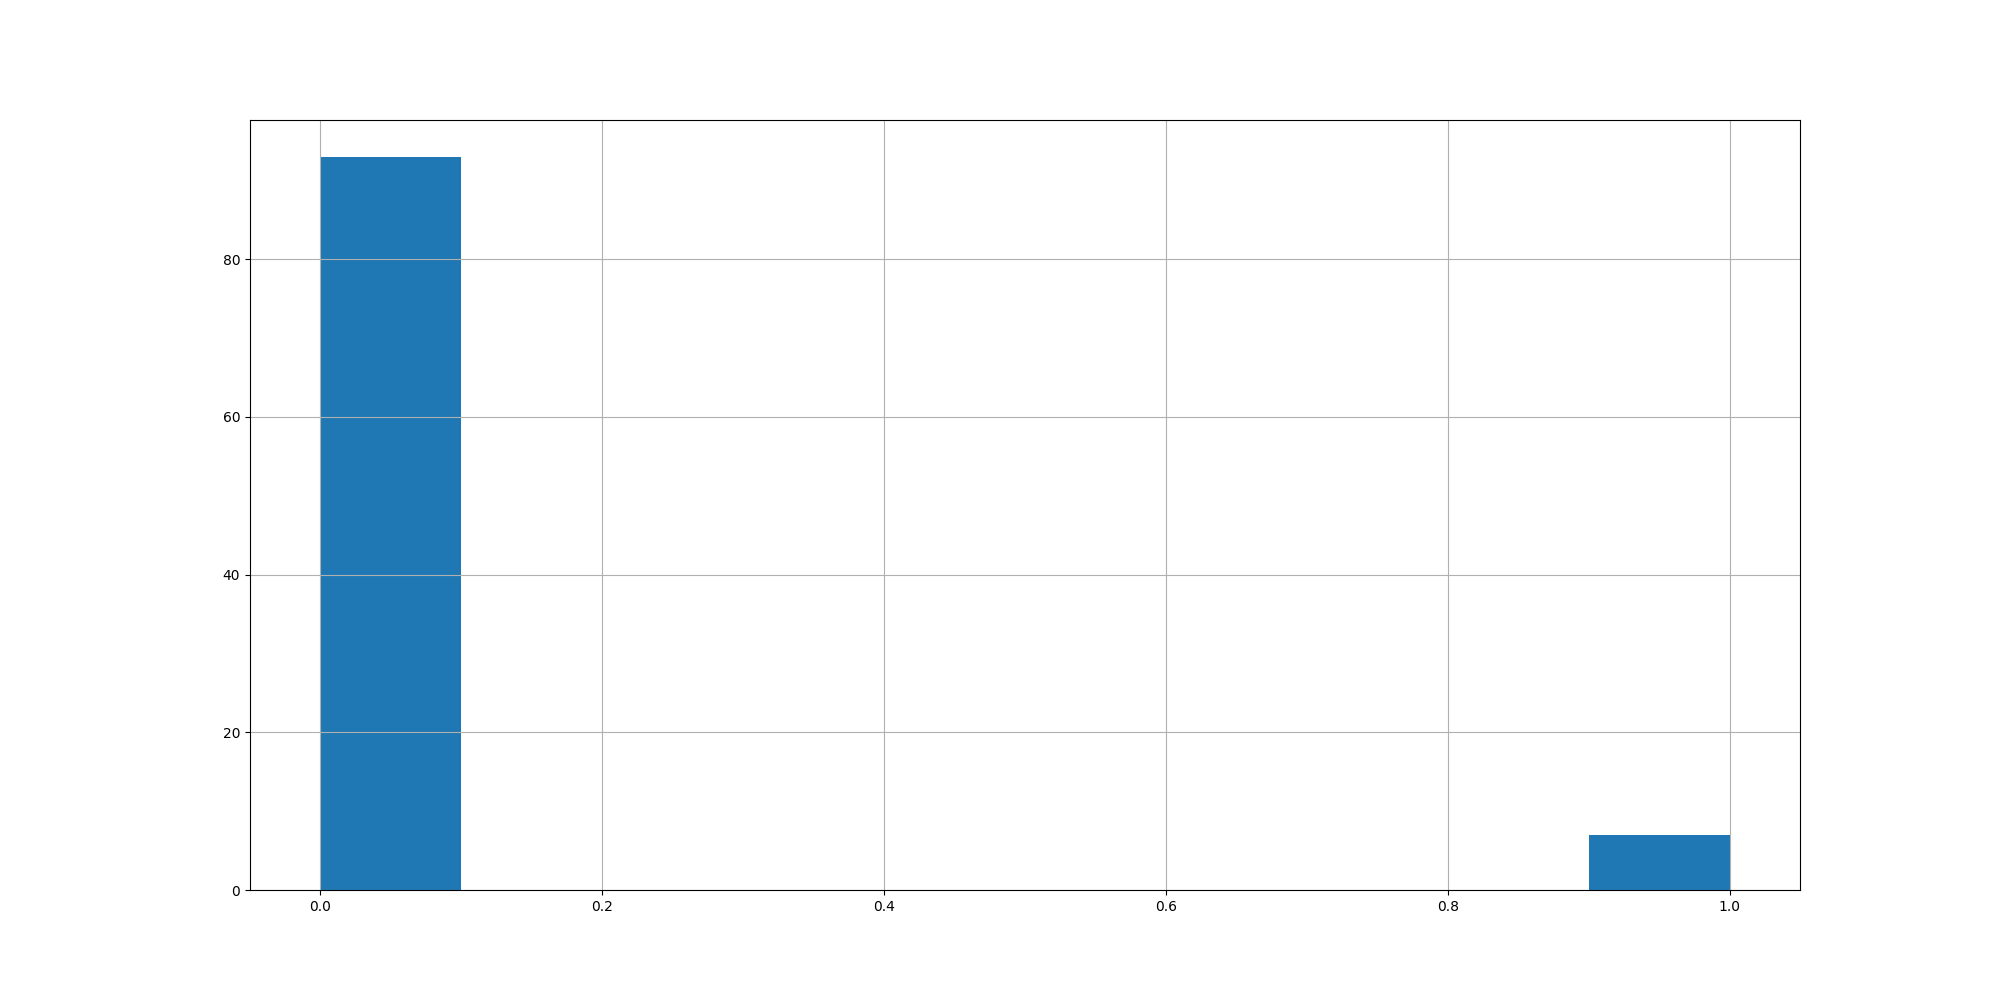
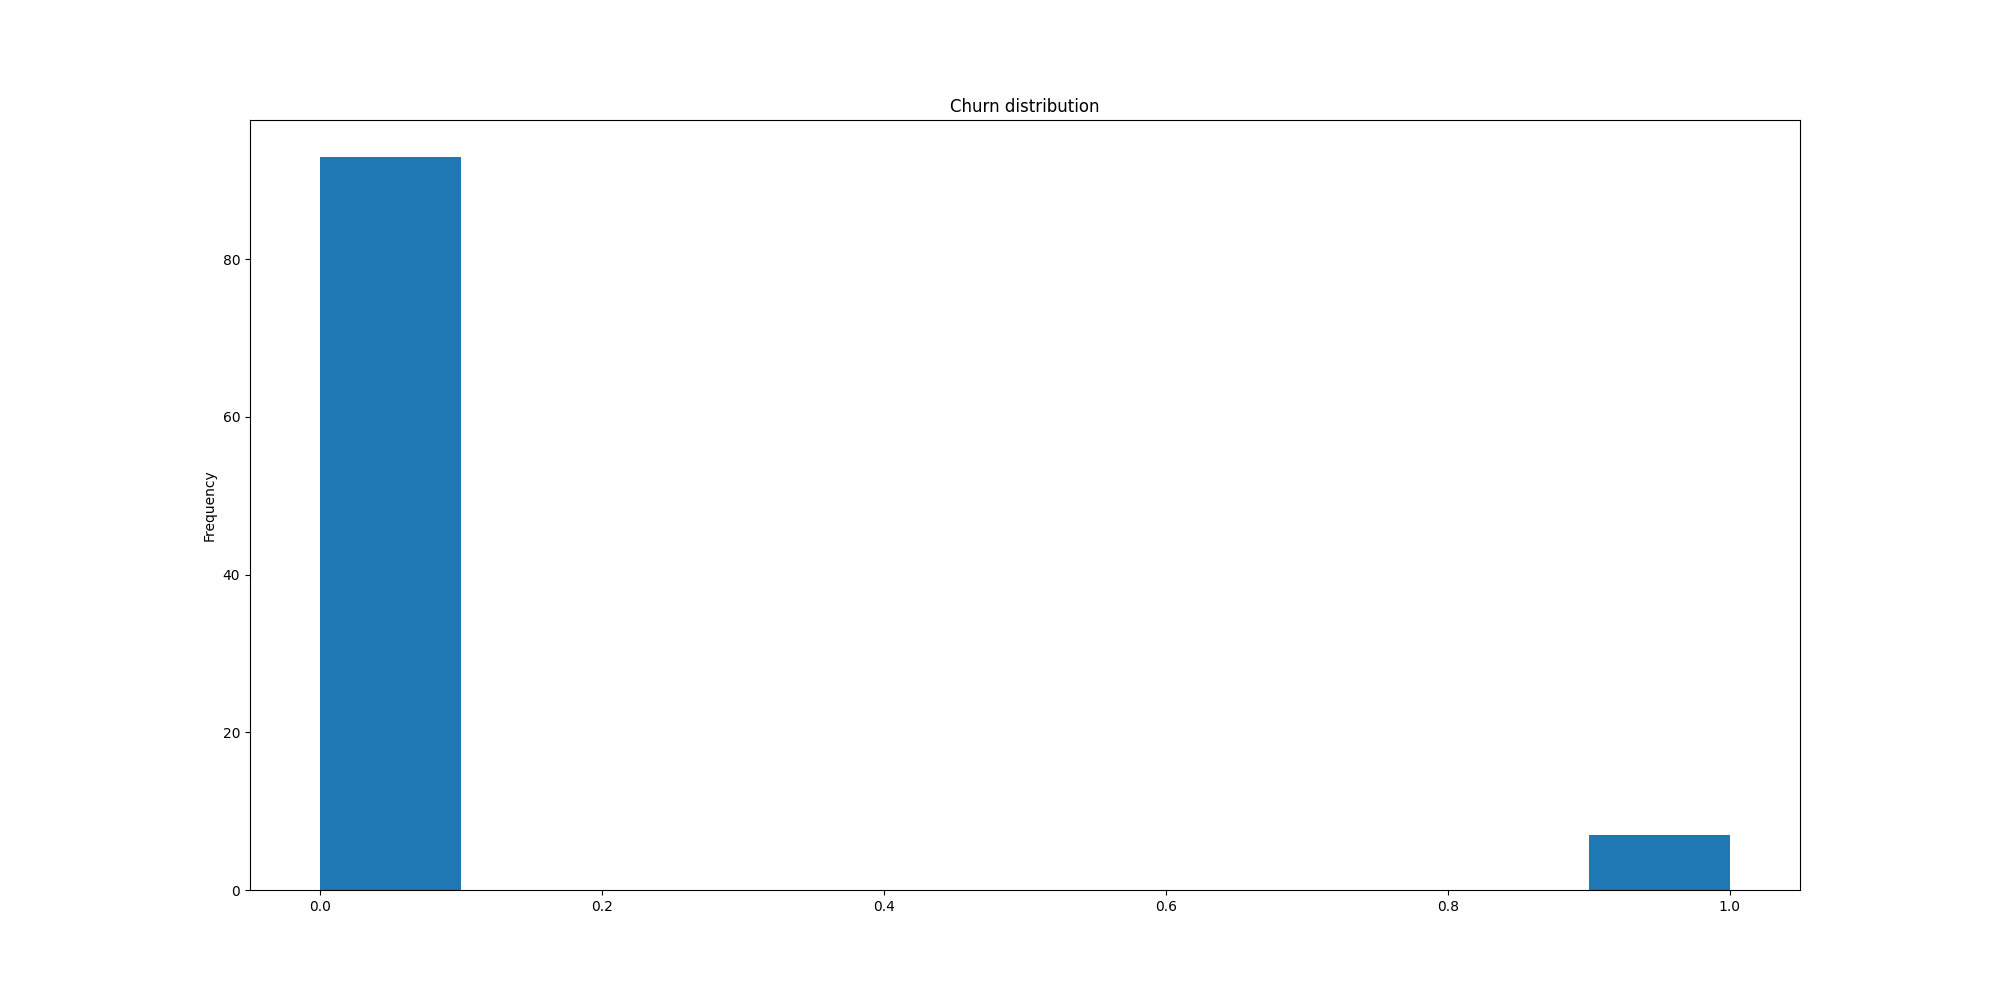
Added labels to charts.

Changed region(s): [[0.465, 0.093, 0.558, 0.124]]

diff --git a/churn_library.py b/churn_library.py
@@ -1,4 +1,4 @@
-# Project: Predict Customer Churn
+"""Project: Predict Customer Churn"""
 # Author: Mykola
 # Created: 10.02.2022
 
@@ -37,19 +37,22 @@ def perform_eda(df):
     path_eda = './images/eda/'
 
     plt.figure(figsize=(20, 10))
-    df.Marital_Status.value_counts('normalize').plot(kind='bar')
+    df.Marital_Status.value_counts('normalize').plot(kind='bar',
+                                                     title="Marital status distribution",
+                                                     ylabel='Frequency')
     plt.savefig(path_eda + 'marital_status_distribution.png')
 
     # histograms
     for col in ['Churn', 'Customer_Age', 'Total_Trans_Ct']:
         plt.figure(figsize=(20, 10))
-        df['Churn'].hist()
+        df['Churn'].plot(kind='hist', xlabel=col, ylabel='Frequency', title=f'{col} distribution')
         plt.savefig(path_eda + f'{col.lower()}_hist.png')
 
     # heatmap
     plt.figure(figsize=(20, 10))
     sns.heatmap(df.corr(), annot=False, cmap='Dark2_r', linewidths=2)
-    plt.savefig(path_eda + f'heatmap.png')
+    plt.title('Heatmap')
+    plt.savefig(path_eda + 'heatmap.png')
 
 
 def encoder_helper(df, category_lst, response=''):
@@ -146,10 +149,13 @@ def classification_report_image(y_train,
     plt.savefig(results_path + 'rf_results.png')
 
     plt.figure(figsize=(5, 5))
-    plt.text(0.01, 1.25, str('Logistic Regression Train'), {'fontsize': 10}, fontproperties='monospace')
-    plt.text(0.01, 0.05, str(classification_report(y_train, y_train_preds_lr)), {'fontsize': 10},
+    plt.text(0.01, 1.25, str('Logistic Regression Train'), {'fontsize': 10},
              fontproperties='monospace')
-    plt.text(0.01, 0.6, str('Logistic Regression Test'), {'fontsize': 10}, fontproperties='monospace')
+    plt.text(0.01, 0.05, str(classification_report(y_train, y_train_preds_lr)),
+             {'fontsize': 10},
+             fontproperties='monospace')
+    plt.text(0.01, 0.6, str('Logistic Regression Test'), {'fontsize': 10},
+             fontproperties='monospace')
     plt.text(0.01, 0.7, str(classification_report(y_test, y_test_preds_lr)), {'fontsize': 10},
              fontproperties='monospace')
     plt.axis('off')
@@ -258,13 +264,13 @@ cat_columns = [
     'Card_Category'
 ]
 
-df = encoder_helper(df, category_lst=cat_columns, response='_Churn')
-
-X_train, X_test, y_train, y_test = perform_feature_engineering(df)
-
-train_models(X_train, X_test, y_train, y_test)
-
-rfc_model = joblib.load('./models/rfc_model.pkl')
-lr_model = joblib.load('./models/logistic_model.pkl')
-
-feature_importance_plot(rfc_model, X_test, 'images/results/')
+# df = encoder_helper(df, category_lst=cat_columns, response='_Churn')
+#
+# X_train, X_test, y_train, y_test = perform_feature_engineering(df)
+#
+# train_models(X_train, X_test, y_train, y_test)
+#
+# rfc_model = joblib.load('./models/rfc_model.pkl')
+# lr_model = joblib.load('./models/logistic_model.pkl')
+#
+# feature_importance_plot(rfc_model, X_test, 'images/results/')

diff --git a/churn_script_logging_and_tests.py b/churn_script_logging_and_tests.py
@@ -2,10 +2,13 @@
 # Author: Mykola
 # Created: 10.02.2022
 
-import os
 import logging
+import os
+
 import numpy as np
-from churn_library import import_data, perform_eda, encoder_helper, perform_feature_engineering, train_models
+
+from churn_library import import_data, perform_eda, encoder_helper, \
+    perform_feature_engineering, train_models
 
 # import churn_library_solution as cls
 
@@ -54,10 +57,10 @@ def test_encoder_helper(encoder_helper, df_test):
     """
     test encoder helper
     """
-    df_test = encoder_helper(df_test, category_lst=cat_columns, response=response)
+    df_test = encoder_helper(df_test, category_lst=cat_columns, response=RESPONSE)
 
     try:
-        assert set(df_test.columns).issuperset([col + response for col in cat_columns])
+        assert set(df_test.columns).issuperset([col + RESPONSE for col in cat_columns])
     except AssertionError:
         logging.error('Testing test_encoder_helper: missing categorical columns.')
     logging.info('Testing test_encoder_helper: SUCCESS')
@@ -67,20 +70,20 @@ def test_perform_feature_engineering(perform_feature_engineering, df_test):
     """
     test perform_feature_engineering
     """
-    X_train, X_test, y_train, y_test = perform_feature_engineering(df_test)
+    x_train, x_test, y_train, y_test = perform_feature_engineering(df_test)
 
     try:
-        assert (len(X_train) == len(y_train)) and (len(X_test)) == len(y_test)
+        assert (len(x_train) == len(y_train)) and (len(x_test)) == len(y_test)
     except AssertionError:
         logging.error('Testing perform_feature_engineering: wrong shape.')
     logging.info('Testing perform_feature_engineering: SUCCESS')
 
 
-def test_train_models(train_models, X_train, X_test, y_train, y_test):
+def test_train_models(train_models, x_train, x_test, y_train, y_test):
     """
     test train_models
     """
-    train_models(X_train, X_test, y_train, y_test)
+    train_models(x_train, x_test, y_train, y_test)
 
     try:
         assert len(os.listdir("./models")) == 2
@@ -98,7 +101,7 @@ if __name__ == "__main__":
     df_test['Churn'] = np.where(df_test['Attrition_Flag'] == 'Existing Customer', 0, 1)
 
     test_eda(perform_eda, df_test)
-    response = '_Churn'
+    RESPONSE = '_Churn'
     cat_columns = [
         'Gender',
         'Education_Level',
@@ -107,9 +110,9 @@ if __name__ == "__main__":
         'Card_Category'
     ]
     test_encoder_helper(encoder_helper, df_test)
-    df_test = encoder_helper(df_test, category_lst=cat_columns, response=response)
+    df_test = encoder_helper(df_test, category_lst=cat_columns, response=RESPONSE)
 
     test_perform_feature_engineering(perform_feature_engineering, df_test)
-    X_train, X_test, y_train, y_test = perform_feature_engineering(df_test)
+    x_train, x_test, y_train, y_test = perform_feature_engineering(df_test)
 
-    test_train_models(train_models, X_train, X_test, y_train, y_test)
+    test_train_models(train_models, x_train, x_test, y_train, y_test)

diff --git a/README.md b/README.md
@@ -3,15 +3,17 @@
 - Project **Predict Customer Churn** of ML DevOps Engineer Nanodegree Udacity
 
 ## Project Description
-This project predicts customer churn.
+This project identifies credit card customers that are most likely to churn. It includes a Python a
+machine learning package that can be run interactively or from the command-line interface (CLI).
+The dataset was taken from [Kaggle](https://www.kaggle.com/sakshigoyal7/credit-card-customers/code).
 
 ## Running Files
-To train and test model run:
+To train and test model run in command-line:
 ```
 python churn_library.py
 ```
 
-To test predict churn script run:
+To test predict churn script run in command-line:
 ```
 python churn_script_logging_and_testing.py
 ```
